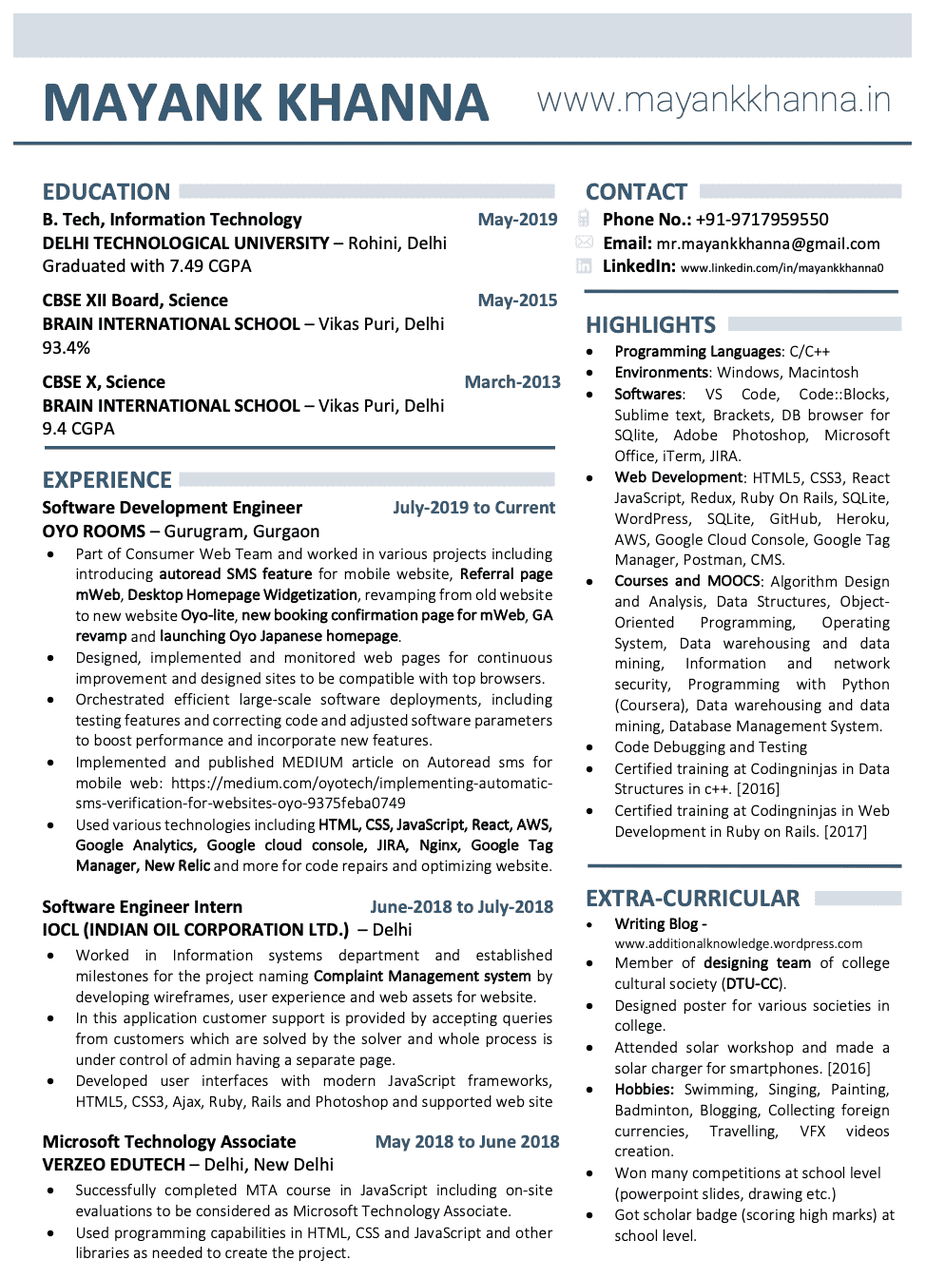
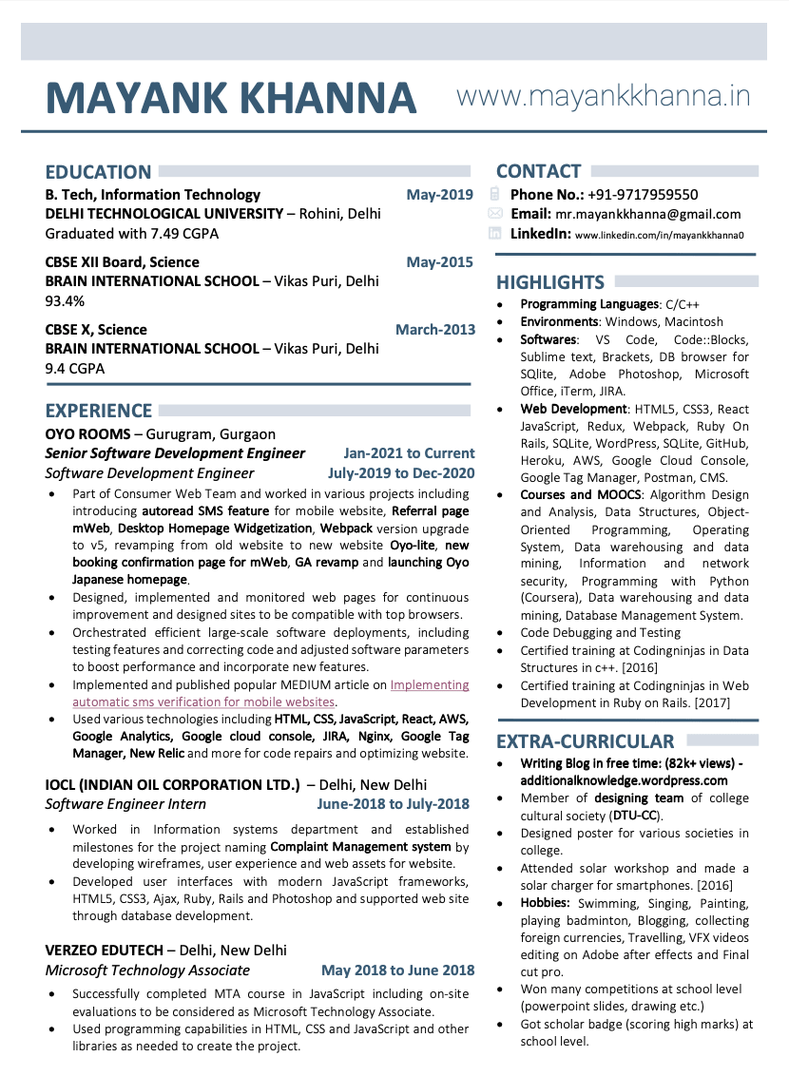
added theme

diff --git a/assets/css/index.css b/assets/css/index.css
@@ -1,1 +1,1 @@
-@import url(https://fonts.googleapis.com/css2?family=Spartan:wght@100;200;300;400;500;600;800&display=swap);*{padding:0;margin:0}html{scroll-behavior:smooth}body{padding:0;margin:0;font-family:Spartan,sans-serif;background:#121525;color:#fff;text-align:center}.site-title{font-size:20px}.outer{background-color:#121525;color:#fff;display:flex;flex-direction:column;justify-content:center;align-items:center;text-align:center;height:100vh}.heading{font-size:22px;font-weight:400}.keyboard{margin:56px 0;display:flex;flex-direction:column}.webDev{display:flex;text-transform:uppercase;position:absolute;left:100px;top:80px}.webDevText{margin-left:16px;display:flex;flex-direction:column;justify-content:space-evenly}.row{display:flex;flex-direction:row}.btn{border:1px solid #fff;border-radius:8px;padding:16px;margin:8px;width:1em}.dup{display:flex;justify-content:space-between;flex-direction:column;padding-top:4px;padding-bottom:4px}.tab{width:3em}.caps{width:4em}.return{width:4em}.shift{width:6em}.highlight{background:#fff;border:1px solid #fff}.active{animation:scaleUp .2s ease-in-out}@keyframes scaleUp{0%{background-color:#d6d0d0;color:#121525;transform:scale(1)}50%{background-color:#d6d0d0;color:#121525;transform:scale(1.2)}100%{background-color:#d6d0d0;color:#121525;transform:scale(1)}}.high{animation:proxy .26s infinite ease-in-out}@keyframes proxy{0%{transform:translate(-2px,2px)}25%{transform:translate(2px,-2px)}50%{transform:translate(2px,2px)}100%{transform:translate(-2px,-2px)}}#speed{font-size:42px;position:absolute;top:40px;opacity:.5}.bottomText{position:absolute;bottom:0;opacity:.5;right:0;margin:10px;display:none}.downArrow{fill:#fff;height:37px;width:40px;position:absolute;bottom:0;margin-bottom:16px;left:calc(50% - 20px);animation:bounce .8s infinite ease-in-out;cursor:pointer}@keyframes bounce{0%{transform:translateY(4px)}50%{transform:translateY(0)}100%{transform:translateY(5px)}}.borderL{border-bottom:2px solid #fff;border-left:2px solid #fff}.borderR{border-bottom:2px solid #fff;border-right:2px solid #fff}header{position:fixed;top:0;left:0;width:calc(100% - 200px);padding:40px 100px;z-index:50;display:flex;justify-content:space-between;align-items:center;transition:.5s}@keyframes headl{0%{transform:translateY(-100px)}100%{transform:translateY(0)}}header.sticky{background:#fff;padding:20px 100px;box-shadow:0 5px 20px rgba(0,0,0,.1);animation:headl .5s ease-in-out}header .logo{color:#fff;font-size:24px;text-transform:uppercase;text-decoration:none;font-weight:700;letter-spacing:2px}header.sticky .logo{color:#111}header ul{position:relative;display:flex}header ul li{position:relative;list-style:none}header ul li a{position:relative;display:inline-block;margin:0 15px;color:#fff;text-decoration:none}header.sticky ul li a{color:#111}.main{position:relative;overflow-y:hidden;padding-top:150px;padding:100px;background:#e5e5e5}.about{color:#121525;font-size:34px;font-weight:400}.about-section{margin-bottom:100px;display:flex;justify-content:space-around;align-items:center;margin-top:100px}.about-left{color:#121525;text-align:justify;width:50%;font-size:17px;line-height:1.5}.imageClass{width:26%;filter:drop-shadow(0px 0px 9px #bbb6b6);}.name{font-size:22px;font-weight:600}.linkClass{text-decoration:none;position:relative;font-size:20px;font-weight:800;color:#4169e1;overflow:hidden;background:linear-gradient(to right,#121525,#121525 50%,#4169e1 50%);background-clip:text;-webkit-background-clip:text;-webkit-text-fill-color:transparent;background-size:200% 100%;background-position:100%;transition:background-position 275ms ease;text-decoration:none}.linkClass:hover{background-position:0 100%}.experience{font-size:34px;font-weight:400}#experience{position:relative;padding:100px}#experience::after{content:'';position:absolute;height:340px;width:100%;left:0;bottom:-143px;background:#121525;transform:skewY(11deg);z-index:2}#experience::before{content:'';position:absolute;height:400px;width:100%;left:0;bottom:-436px;background:#00acff;transform:skewY(11deg);z-index:3}.timeline{background:#121525;position:relative;width:100%;padding:30px 0;margin-top:50px}.pointer{background:#fff;height:10px;width:10px;left:0;top:7px;transform:rotate(45deg);border-radius:2px}.timeline::after{content:"";position:absolute;width:6px;background:#e5e5e5;top:0;bottom:0;left:50%;z-index:5}.container{box-sizing:border-box;padding:15px 30px;position:relative;background:inherit;width:50%;z-index:4;background:0 0}.left{left:0}.right{left:50%}.container::after{content:"";height:20px;width:20px;background:#e5e5e5;position:absolute;transform:rotate(45deg);border-radius:4px;top:calc(50% - 10px);right:-13px;z-index:1}.container:hover::after{background:#fff}.container.right::after{left:-7px}.container::before{content:"";position:absolute;width:6px;height:6px;top:calc(50% - 5px);right:-8px;border:2px solid #121525;border-radius:50%;z-index:10;transform:matrix(1,0,0,5,0,0)}.container.right::before{left:-2px}.container .date{box-sizing:border-box;position:absolute;display:inline-block;top:calc(50% - 8px);text-align:center;font-size:14px;font-weight:700;color:#fff;text-transform:uppercase;letter-spacing:1px;z-index:1}.container.left .date{right:-230px}.container.right .date{left:-225px}.container .icon{position:absolute;box-sizing:border-box;display:inline-block;width:82px;height:80px;top:calc(50% - 38px);z-index:1;transition:all 1s ease-in-out;cursor:crosshair}.container .icon:hover{transform:rotate(1260deg);transition:all 1s ease-in-out}.container .icon:hover~.date-highlighter{background-position:0 0}.date-highlighter{top:calc(50% - 38px);right:-241px;position:absolute;height:70px;width:220px;box-shadow:0 0 10px 3px #eee;background-image:linear-gradient(to left,transparent,transparent 50%,#f37055 50%,#ef4e7b);background-position:100% 0;background-size:200% 100%;transition:all .6s ease-in}.verzeoColor{background-image:linear-gradient(to left,transparent,transparent 50%,rgb(45 116 244) 50%,rgb(247 165 60))}.oyoColor{background-image:linear-gradient(to left,transparent,transparent 50%,rgb(236 46 41) 50%,rgb(230 75 70))}.ioclColor{background-image:linear-gradient(to left,transparent,transparent 50%,rgb(2 24 80) 50%,rgb(244 113 32))}.date-highlighter::before{content:"";height:32px;width:32px;background:#131625;position:absolute;top:-22px;right:140px;box-shadow:inset 0 -6px 5px -3px #eee;border-radius:50%}.date-highlighter::after{content:"";height:32px;width:32px;background:#131625;position:absolute;top:60px;right:48px;box-shadow:inset 0 6px 5px -3px #eee;border-radius:50%}.date-right{right:632px;left:-231px}.date-left{right:-238px}.container.left .icon{right:36px}.container.right .icon{left:36px}.container .content{box-shadow:0 0 10px -1px #eee;padding:20px 80px 20px 20px;position:relative;background:#e7e6e2;border:10px solid #fff}.container.right .content{padding:30px 30px 30px 90px}.container .content h2{text-align:left;margin:0 0 10px 0;font-size:20px;font-weight:600;color:#131625}.container .content h3{text-align:left;margin:0 0 10px 0;font-size:18px;font-weight:500;color:#131625}.container .content p{text-align:justify;margin:0;font-size:14px;line-height:22px;color:#000}div#contact::before{content:'';position:absolute;height:400px;width:100%;left:0;top:-360px;background:#0191e6;z-index:3}@media (max-width:1000px){.container .content h2{margin:0 0 10px 0;font-size:20px;font-weight:400;color:#fff}.container .content h3{margin:0 0 10px 0;font-size:18px;font-weight:400;color:#fff}.container .content p{color:#fff;text-align:justify}.timeline::after{left:90px}.container{width:100%;padding-left:120px;padding-right:0}.container .content{background:0 0;border:none;box-shadow:none}.container.right{left:0}.container.left::after,.container.right::after{left:82px}.container.left::before,.container.right::before{left:87px}.container.left .date,.container.right .date{right:auto;left:100px;top:10px}.container.left .icon,.container.right .icon{display:none}.container.left .content,.container.right .content{padding:30px 30px 30px 90px;border-radius:500px 0 0 500px}.companyLogo,.date-highlighter{display:none}}.companyLogo{transition:all 1s ease-in-out;position:absolute;height:60px;right:30px}.oyoLogo{left:10px;top:14px}.ioclLogo{left:16px;top:20px}.oyoh2{margin-left:60px!important}.verzeo{height:28px}.contact-form{padding-top:50px;width:60%;display:flex;flex-direction:column;text-align:left;margin:auto}input[type=text],select,textarea{width:100%;padding:12px;border:1px solid #fff;border-radius:4px;box-sizing:border-box;margin-top:6px;margin-bottom:16px;resize:vertical;outline:0}input[type=reset],input[type=submit]{background-color:#fff;color:#121525;padding:12px 20px;font-size:16px;border:none;border-radius:4px;cursor:pointer;margin-right:20px;outline:0}input[type=submit]:hover{background-color:#ccc}input[type=reset]:hover{background-color:#ccc}.contact-icons{width:auto;background:#eee;margin-top:80px;display:flex;justify-content:center;color:#131626;font-size:16px;text-transform:uppercase;font-weight:100;padding:30px;position:relative}.contact-icon-class{height:30px;width:30px;fill:#131626;transition:all .3s ease-in-out}.contact-icons-wrapper{border-radius:50%;display:flex;z-index:1;flex-direction:column;align-items:center;cursor:pointer;padding:16px;box-shadow:0 0 14px -1px grey;margin:0 16px;transition:all .3s ease-in-out;background-position:100% 0;background-size:200% 100%;transition:all .25s ease-in}.contact-icons-wrapper:hover .whiteIcon{fill:#fff;transition:all .3s ease-in-out}.linkedin{background-image:linear-gradient(to left,transparent,transparent 50%,#0377b5 50%,#0377b5)}.gmail{background-image:linear-gradient(to left,transparent,transparent 50%,#e94034 50%,#e94034)}.whatsapp{background-image:linear-gradient(to left,transparent,transparent 50%,#4ec15b 50%,#4ec15b)}.wordpress{background-image:linear-gradient(to left,transparent,transparent 50%,#207195 50%,#207195)}.codepen{background-image:linear-gradient(to left,transparent,transparent 50%,#000 50%,#000)}.codepen:hover,.gmail:hover,.linkedin:hover,.whatsapp:hover,.wordpress:hover{background-position:0 0;transform:scale(1.2)}#contact{padding-top:180px;position:relative}.copyright{background:#eee;color:#131626;padding-top:16px;padding-bottom:20px}.connect{position:absolute;left:8%;background:#eee;padding:20px;top:-28px;font-size:20px;font-weight:500;transition:.5s}#work{background:#e5e5e5;overflow-x:hidden;position:relative;padding-top:120px}.workHeading{z-index:5;position:absolute;top:30px;left:100px;font-size:60px;font-weight:700;color:#fff;text-transform:uppercase}.contactHeading{z-index:5;position:absolute;top:90px;left:20%;font-size:60px;font-weight:700;color:#fff;text-transform:uppercase;letter-spacing:-1px}.workh{left:10%}.workOuter{display:flex;flex-wrap:wrap;justify-content:center;background:#e5e5e5;padding:80px 80px 40px 80px}.workSection{padding-bottom:0}.workWrapper{padding:0 50px 100px 50px;z-index:5}.mobile-outer{color:#121525;height:500px;width:300px;border:6px solid #e5e5e5;background:#121525;cursor:pointer;transition:.5s ease-in-out}.mobile-inner{height:90%;width:100%;position:relative;background:linear-gradient(44deg,#008fe6 0,#0091e6 48%,#00acff 48%,#00acff 100%)}.mobile-inner:after{content:"";background-color:#eee;height:30px;width:30px;border-radius:50%;position:absolute;bottom:-40px;left:calc(50% - 15px)}.mobile-screen{height:260px;width:260px;background:#eee;transition:.5s ease-in-out}.mobile-screen-cv{width:100%;background:#eee;transition:.5s ease-in-out}.mobile-text{position:absolute;bottom:0;color:#fff;text-align:left;left:16px;padding-right:30px;font-size:22px}.mediumLogo{height:60px;filter:invert(1);position:absolute;left:0}.mobile-outer:hover{transition:transform .6s ease-in-out}.mobile-outer:hover .mobile-screen{transform:scalex(1.1) scaleY(1.1);transition:transform .6s ease-in-out}.mobile-outer:hover .mobile-screen-cv{transform:scalex(1.1) scaleY(1.1);transition:transform .6s ease-in-out}.mobile-image{height:260px;width:calc(100% - 40px);background:#eee;position:absolute;top:80px;left:20px;overflow:hidden;transition:.6s ease-in-out}.cv{height:calc(100% - 100px)}.outflow{position:absolute;height:100%;width:100%;top:0;opacity:.8;transition:background-color .6s ease-in-out}.mobile-outer:hover .outflow{background-color:#272626;transition:background-color .6s ease-in-out}.outflowIcon{fill:transparent;position:absolute;height:30px;top:45%;left:45%;transition:fill .6s ease-in-out}.mobile-outer:hover .outflowIcon{fill:#fff;transition:fill .6s ease-in-out}.cvText{text-transform:uppercase;font-size:24px;letter-spacing:-1px;padding-top:26px;color:#fff;font-weight:600}.mobile-header{height:60px;width:100%;position:fixed;background:#e5e5e5;z-index:30;box-shadow:0 0 15px -4px #7d7777}.mobile-header-title{color:#131626;font-size:21px;height:100%;align-items:center;display:flex;justify-content:center}#menu{z-index:2}#menu-bar{transform:translate(20px,22px);width:36px;height:40px}.bar{height:4px;width:100%;background:#131626;border-radius:2px;transition:.3s ease}#bar1{transform:translateY(-5px)}#bar3{transform:translateY(5px)}.nav{transition:.3s ease;display:none}.nav ul{padding:20px 22px}.nav li{list-style:none;padding:12px 0}.nav li a{color:#fff;font-size:20px;text-decoration:none}.nav li a:hover{font-weight:700}#menu,.menu-bg{top:0;left:0;position:absolute;text-align:left}.menu-bg{z-index:1;width:0;height:0;background:#131626;border-radius:50%;box-shadow:7px 9px 0 -7px #eee;transition:.3s ease}.change{display:block}.change .bar{background-color:#fff}.change #bar1{transform:translateY(4px) rotateZ(-45deg)}.change #bar2{opacity:0}.change #bar3{transform:translateY(-6px) rotateZ(45deg)}.change-bg{width:300px;height:300px;transform:translate(-47%,-8%)}@media only screen and (max-width:950px){#home,header{display:none}.cv{overflow-y:hidden}.cvText{font-size:24px}}@media only screen and (min-width:950px){.mobile-header{display:none}}@media only screen and (max-width:600px){.main{padding:100px 16px 20px 16px;overflow:hidden}.imageClass{width:200px;height:200px}.about-section{flex-direction:column-reverse;margin-top:40px}.about-left{width:100%;padding-top:16px}.contact-icons{flex-wrap:wrap;padding-top:40px}.contact-icons-wrapper{margin-bottom:16px}.contact-form{width:90%}#experience{padding:100px 16px 50px 16px}.timeline::after{left:20px}.container.left::after,.container.right::after{left:13px}.container.left::before,.container.right::before{left:18px}.container{width:100%;padding-left:20px}.container.left .content,.container.right .content{padding:30px 0 30px 30px;border:none;box-shadow:none}.oyoh2{margin-left:0!important}.container .content p{text-align:left}.container.left .date,.container.right .date{left:50px}.container .content h2{font-size:22px;font-weight:700}.container .content h3{font-size:18px;font-weight:600}.workOuter{padding-top:20px}.leftMargin{padding-left:1650px}.expWave{display:none}.contactHeading{left:16px;top:85px;font-size:40px}.circleSym{right:-220px!important}.expNew{font-size:30px!important}}a:link{text-decoration:none!important}.symb{position:absolute;top:0;left:0}.expNew{font-size:60px;font-weight:700;color:#fff;text-transform:uppercase;letter-spacing:-1px}.aboutNew{color:#121525}
+@import url(https://fonts.googleapis.com/css2?family=Spartan:wght@100;200;300;400;500;600;800&display=swap);*{padding:0;margin:0}:root{--bg:#121525;--work-color:#00acff;--work-color2:#008fe6;--work-color3:#121525;--text-color:#121525;--svg-background:#15a9d0;--image-opt:drop-shadow(0px 0px 9px #bbb6b6);--link-blog:#4169e1}.newTheme{--bg:#6a5866;--work-color:#806e91;--work-color2:#6a5866;--work-color3:#b0718d;--text-color:#6a5866;--svg-background:#6a5866;--image-opt:drop-shadow(0px 0px 9px #bbb6b6) sepia(83%) saturate(1) contrast(90%);--link-blog:#b0718d}html{scroll-behavior:smooth}body{padding:0;margin:0;font-family:Spartan,sans-serif;background:var(--bg);color:#fff;text-align:center}.site-title{font-size:20px}.toggleWrapper{position:fixed;z-index:1000000;bottom:10%;right:1%}.toggleWrapper::before{content:"";position:absolute;height:50px;width:150px;left:-9px;bottom:-17px;background:#c1f0db;border-top-left-radius:60px;border-bottom-left-radius:60px;box-shadow:1px 1px 17px -3px grey}.outer{background-color:var(--bg);color:#fff;display:flex;flex-direction:column;justify-content:center;align-items:center;text-align:center;height:100vh}.heading{font-size:22px;font-weight:400}.keyboard{margin:56px 0;display:flex;flex-direction:column}.webDev{display:flex;text-transform:uppercase;position:absolute;left:100px;top:80px}.webDevText{margin-left:16px;display:flex;flex-direction:column;justify-content:space-evenly}.row{display:flex;flex-direction:row}.btn{border:1px solid #fff;border-radius:8px;padding:16px;margin:8px;width:1em}.dup{display:flex;justify-content:space-between;flex-direction:column;padding-top:4px;padding-bottom:4px}.tab{width:3em}.caps{width:4em}.return{width:4em}.shift{width:6em}.highlight{background:#fff;border:1px solid #fff}.active{animation:scaleUp .2s ease-in-out}@keyframes scaleUp{0%{background-color:#d6d0d0;color:#121525;transform:scale(1)}50%{background-color:#d6d0d0;color:#121525;transform:scale(1.2)}100%{background-color:#d6d0d0;color:#121525;transform:scale(1)}}.high{animation:proxy .26s infinite ease-in-out}@keyframes proxy{0%{transform:translate(-2px,2px)}25%{transform:translate(2px,-2px)}50%{transform:translate(2px,2px)}100%{transform:translate(-2px,-2px)}}#speed{font-size:42px;position:absolute;top:40px;opacity:.5}.bottomText{position:absolute;bottom:0;opacity:.5;right:0;margin:10px;display:none}.downArrow{fill:#fff;height:37px;width:40px;position:absolute;bottom:0;margin-bottom:16px;left:calc(50% - 20px);animation:bounce .8s infinite ease-in-out;cursor:pointer}@keyframes bounce{0%{transform:translateY(4px)}50%{transform:translateY(0)}100%{transform:translateY(5px)}}.borderL{border-bottom:2px solid #fff;border-left:2px solid #fff}.borderR{border-bottom:2px solid #fff;border-right:2px solid #fff}header{position:fixed;top:0;left:0;width:calc(100% - 200px);padding:40px 100px;z-index:50;display:flex;justify-content:space-between;align-items:center;transition:.5s}@keyframes headl{0%{transform:translateY(-100px)}100%{transform:translateY(0)}}header.sticky{background:#fff;padding:20px 100px;box-shadow:0 5px 20px rgba(0,0,0,.1);animation:headl .5s ease-in-out}header .logo{color:#fff;font-size:24px;text-transform:uppercase;text-decoration:none;font-weight:700;letter-spacing:2px}header.sticky .logo{color:var(--text-color)}header ul{position:relative;display:flex}header ul li{position:relative;list-style:none}header ul li a{position:relative;display:inline-block;margin:0 15px;color:#fff;text-decoration:none}header.sticky ul li a{color:var(--text-color)}.main{position:relative;overflow-y:hidden;padding-top:150px;padding:100px;background:#e5e5e5}.about{color:#121525;font-size:34px;font-weight:400}.about-section{margin-bottom:100px;display:flex;justify-content:space-around;align-items:center;margin-top:100px}.about-left{color:var(--text-color);text-align:justify;width:50%;font-size:17px;line-height:1.5}.imageClass{width:26%;filter:var(--image-opt)}.name{font-size:22px;font-weight:600}.linkClass{text-decoration:none;position:relative;font-size:20px;font-weight:800;color:var(--link-blog);overflow:hidden;background:linear-gradient(to right,var(--bg),var(--bg) 50%,var(--link-blog) 50%);background-clip:text;-webkit-background-clip:text;-webkit-text-fill-color:transparent;background-size:200% 100%;background-position:100%;transition:background-position 275ms ease;text-decoration:none}.linkClass:hover{background-position:0 100%}.experience{font-size:34px;font-weight:400}#experience{background:var(--bg);position:relative;padding:100px}#experience::after{content:"";position:absolute;height:340px;width:100%;left:0;bottom:-143px;background:var(--bg);transform:skewY(11deg);z-index:2}#experience::before{content:"";position:absolute;height:400px;width:100%;left:0;bottom:-436px;background:var(--work-color);transform:skewY(11deg);z-index:3}.timeline{background:var(--bg);position:relative;width:100%;padding:30px 0;margin-top:50px}.expWave>path:nth-of-type(1){fill:var(--bg)}.circleSym>path:nth-of-type(1){fill:var(--bg)}.pointer{background:#fff;height:10px;width:10px;left:0;top:7px;transform:rotate(45deg);border-radius:2px}.timeline::after{content:"";position:absolute;width:6px;background:#e5e5e5;top:0;bottom:0;left:50%;z-index:5}.container{box-sizing:border-box;padding:15px 30px;position:relative;background:inherit;width:50%;z-index:4;background:0 0}.left{left:0}.right{left:50%}.container::after{content:"";height:20px;width:20px;background:#e5e5e5;position:absolute;transform:rotate(45deg);border-radius:4px;top:calc(50% - 10px);right:-13px;z-index:1}.container:hover::after{background:#fff}.container.right::after{left:-7px}.container::before{content:"";position:absolute;width:6px;height:6px;top:calc(50% - 5px);right:-8px;border:2px solid var(--bg);border-radius:50%;z-index:10;transform:matrix(1,0,0,5,0,0)}.container.right::before{left:-2px}.container .date{box-sizing:border-box;position:absolute;display:inline-block;top:calc(50% - 8px);text-align:center;font-size:14px;font-weight:700;color:#fff;text-transform:uppercase;letter-spacing:1px;z-index:1}.container.left .date{right:-230px}.container.right .date{left:-225px}.container .icon{position:absolute;box-sizing:border-box;display:inline-block;width:82px;height:80px;top:calc(50% - 38px);z-index:1;transition:all 1s ease-in-out;cursor:crosshair}.container .icon:hover{transform:rotate(1260deg);transition:all 1s ease-in-out}.container .icon:hover~.date-highlighter{background-position:0 0}.date-highlighter{top:calc(50% - 38px);right:-241px;position:absolute;height:70px;width:220px;box-shadow:0 0 10px 3px #eee;background-image:linear-gradient(to left,transparent,transparent 50%,#f37055 50%,#ef4e7b);background-position:100% 0;background-size:200% 100%;transition:all .6s ease-in}.verzeoColor{background-image:linear-gradient(to left,transparent,transparent 50%,rgb(45 116 244) 50%,rgb(247 165 60))}.oyoColor{background-image:linear-gradient(to left,transparent,transparent 50%,rgb(236 46 41) 50%,rgb(230 75 70))}.ioclColor{background-image:linear-gradient(to left,transparent,transparent 50%,rgb(2 24 80) 50%,rgb(244 113 32))}.date-highlighter::before{content:"";height:32px;width:32px;background:var(--bg);position:absolute;top:-22px;right:140px;box-shadow:inset 0 -6px 5px -3px #eee;border-radius:50%}.date-highlighter::after{content:"";height:32px;width:32px;background:var(--bg);position:absolute;top:60px;right:48px;box-shadow:inset 0 6px 5px -3px #eee;border-radius:50%}.date-right{right:632px;left:-231px}.date-left{right:-238px}.container.left .icon{right:36px}.container.right .icon{left:36px}.container .content{box-shadow:0 0 10px -1px #eee;padding:20px 80px 20px 20px;position:relative;background:#e7e6e2;border:10px solid #fff}.container.right .content{padding:30px 30px 30px 90px}.container .content h2{text-align:left;margin:0 0 10px 0;font-size:20px;font-weight:600;color:var(--text-color)}.container .content h3{text-align:left;margin:0 0 10px 0;font-size:18px;font-weight:500;color:var(--text-color)}.container .content p{text-align:justify;margin:0;font-size:14px;line-height:22px;color:var(--text-color)}div#contact::before{content:"";position:absolute;height:400px;width:100%;left:0;top:-360px;background:var(--work-color);z-index:3}@media (max-width:1000px){.container .content h2{margin:0 0 10px 0;font-size:20px;font-weight:400;color:#fff}.container .content h3{margin:0 0 10px 0;font-size:18px;font-weight:400;color:#fff}.container .content p{color:#fff;text-align:justify}.timeline::after{left:90px}.container{width:100%;padding-left:120px;padding-right:0}.container .content{background:0 0;border:none;box-shadow:none}.container.right{left:0}.container.left::after,.container.right::after{left:82px}.container.left::before,.container.right::before{left:87px}.container.left .date,.container.right .date{right:auto;left:100px;top:10px}.container.left .icon,.container.right .icon{display:none}.container.left .content,.container.right .content{padding:30px 30px 30px 90px;border-radius:500px 0 0 500px}.companyLogo,.date-highlighter{display:none}}.companyLogo{transition:all 1s ease-in-out;position:absolute;height:60px;right:30px}.oyoLogo{left:10px;top:14px}.ioclLogo{left:16px;top:20px}.oyoh2{margin-left:60px!important}.verzeo{height:28px}.contact-form{padding-top:50px;width:60%;display:flex;flex-direction:column;text-align:left;margin:auto}input[type=text],select,textarea{width:100%;padding:12px;border:1px solid #fff;border-radius:4px;box-sizing:border-box;margin-top:6px;margin-bottom:16px;resize:vertical;outline:0}input[type=reset],input[type=submit]{background-color:#fff;color:var(--text-color);padding:12px 20px;font-size:16px;border:none;border-radius:4px;cursor:pointer;margin-right:20px;outline:0}input[type=submit]:hover{background-color:#ccc}input[type=reset]:hover{background-color:#ccc}.contact-icons{width:auto;background:#eee;margin-top:80px;display:flex;justify-content:center;color:var(--text-color);font-size:16px;text-transform:uppercase;font-weight:100;padding:30px;position:relative}.contact-icon-class{height:30px;width:30px;fill:var(--text-color);transition:all .3s ease-in-out}.contact-icons-wrapper{border-radius:50%;display:flex;z-index:1;flex-direction:column;align-items:center;cursor:pointer;padding:16px;box-shadow:0 0 14px -1px grey;margin:0 16px;transition:all .3s ease-in-out;background-position:100% 0;background-size:200% 100%;transition:all .25s ease-in}.contact-icons-wrapper:hover .whiteIcon{fill:#fff;transition:all .3s ease-in-out}.linkedin{background-image:linear-gradient(to left,transparent,transparent 50%,#0377b5 50%,#0377b5)}.gmail{background-image:linear-gradient(to left,transparent,transparent 50%,#e94034 50%,#e94034)}.whatsapp{background-image:linear-gradient(to left,transparent,transparent 50%,#4ec15b 50%,#4ec15b)}.wordpress{background-image:linear-gradient(to left,transparent,transparent 50%,#207195 50%,#207195)}.codepen{background-image:linear-gradient(to left,transparent,transparent 50%,#000 50%,#000)}.codepen:hover,.gmail:hover,.linkedin:hover,.whatsapp:hover,.wordpress:hover{background-position:0 0;transform:scale(1.2)}#contact{background:var(--bg);padding-top:180px;position:relative}.copyright{background:#eee;color:var(--text-color);padding-top:16px;padding-bottom:20px}.connect{position:absolute;left:8%;background:#eee;padding:20px;top:-28px;font-size:20px;font-weight:500;transition:.5s}#work{background:#e5e5e5;overflow-x:hidden;position:relative;padding-top:120px}.workHeading{z-index:5;position:absolute;top:30px;left:100px;font-size:60px;font-weight:700;color:#fff;text-transform:uppercase}.contactHeading{z-index:5;position:absolute;top:90px;left:20%;font-size:60px;font-weight:700;color:#fff;text-transform:uppercase;letter-spacing:-1px}.workh{left:10%}.workOuter{display:flex;flex-wrap:wrap;justify-content:center;background:#e5e5e5;padding:80px 80px 40px 80px}.workSection{padding-bottom:0}.workWrapper{padding:0 50px 100px 50px;z-index:5}.mobile-outer{color:#121525;height:500px;width:300px;border:6px solid #e5e5e5;background:var(--work-color3);cursor:pointer;transition:.5s ease-in-out}.mobile-inner{height:90%;width:100%;position:relative;background:linear-gradient(44deg,var(--work-color) 0,var(--work-color) 48%,var(--work-color2) 48%,var(--work-color2) 100%)}.mobile-inner:after{content:"";background-color:#eee;height:30px;width:30px;border-radius:50%;position:absolute;bottom:-40px;left:calc(50% - 15px)}.mobile-screen{height:260px;width:260px;background:#eee;transition:.5s ease-in-out}.mobile-screen-cv{width:100%;background:#eee;transition:.5s ease-in-out}.mobile-text{position:absolute;bottom:0;color:#fff;text-align:left;left:16px;padding-right:30px;font-size:22px}.mediumLogo{height:60px;filter:invert(1);position:absolute;left:0}.mobile-outer:hover{transition:transform .6s ease-in-out}.mobile-outer:hover .mobile-screen{transform:scalex(1.1) scaleY(1.1);transition:transform .6s ease-in-out}.mobile-outer:hover .mobile-screen-cv{transform:scalex(1.1) scaleY(1.1);transition:transform .6s ease-in-out}.mobile-image{height:260px;width:calc(100% - 40px);background:#eee;position:absolute;top:80px;left:20px;overflow:hidden;transition:.6s ease-in-out}.cv{height:calc(100% - 100px)}.outflow{position:absolute;height:100%;width:100%;top:0;opacity:.8;transition:background-color .6s ease-in-out}.mobile-outer:hover .outflow{background-color:#272626;transition:background-color .6s ease-in-out}.outflowIcon{fill:transparent;position:absolute;height:30px;top:45%;left:45%;transition:fill .6s ease-in-out}.mobile-outer:hover .outflowIcon{fill:#fff;transition:fill .6s ease-in-out}.cvText{text-transform:uppercase;font-size:24px;letter-spacing:-1px;padding-top:26px;color:#fff;font-weight:600}.mobile-header{height:60px;width:100%;position:fixed;background:#e5e5e5;z-index:30;box-shadow:0 0 15px -4px #7d7777}.mobile-header-title{color:#131626;font-size:21px;height:100%;align-items:center;display:flex;justify-content:center}#menu{z-index:2}#menu-bar{transform:translate(20px,22px);width:36px;height:40px}.bar{height:4px;width:100%;background:#131626;border-radius:2px;transition:.3s ease}#bar1{transform:translateY(-5px)}#bar3{transform:translateY(5px)}.nav{transition:.3s ease;display:none}.nav ul{padding:20px 22px}.nav li{list-style:none;padding:12px 0}.nav li a{color:#fff;font-size:20px;text-decoration:none}.nav li a:hover{font-weight:700}#menu,.menu-bg{top:0;left:0;position:absolute;text-align:left}.menu-bg{z-index:1;width:0;height:0;background:#131626;border-radius:50%;box-shadow:7px 9px 0 -7px #eee;transition:.3s ease}.change{display:block}.change .bar{background-color:#fff}.change #bar1{transform:translateY(4px) rotateZ(-45deg)}.change #bar2{opacity:0}.change #bar3{transform:translateY(-6px) rotateZ(45deg)}.change-bg{width:300px;height:300px;transform:translate(-47%,-8%)}@media only screen and (max-width:950px){#home,header{display:none}.cv{overflow-y:hidden}.cvText{font-size:24px}}@media only screen and (min-width:950px){.mobile-header{display:none}}@media only screen and (max-width:600px){.main{padding:100px 16px 20px 16px;overflow:hidden}.imageClass{width:200px;height:200px}.about-section{flex-direction:column-reverse;margin-top:40px}.about-left{width:100%;padding-top:16px}.contact-icons{flex-wrap:wrap;padding-top:40px}.contact-icons-wrapper{margin-bottom:16px}.contact-form{width:90%}#experience{padding:100px 16px 50px 16px}.timeline::after{left:20px}.container.left::after,.container.right::after{left:13px}.container.left::before,.container.right::before{left:18px}.container{width:100%;padding-left:20px}.container.left .content,.container.right .content{padding:30px 0 30px 30px;border:none;box-shadow:none}.oyoh2{margin-left:0!important}.container .content p{text-align:left}.container.left .date,.container.right .date{left:50px}.container .content h2{font-size:22px;font-weight:700}.container .content h3{font-size:18px;font-weight:600}.workOuter{padding-top:20px}.leftMargin{padding-left:1650px}.expWave{display:none}.contactHeading{left:16px;top:85px;font-size:40px}.circleSym{right:-220px!important}.expNew{font-size:30px!important}}a:link{text-decoration:none!important}.symb{position:absolute;top:0;left:0}.expNew{font-size:60px;font-weight:700;color:#fff;text-transform:uppercase;letter-spacing:-1px}.aboutNew{color:var(--bg)}input[type=checkbox]{appearance:none;width:80px;height:8px;background:#444;border-radius:5px;position:relative;outline:0;cursor:pointer}input[type=checkbox]:after,input[type=checkbox]:before{position:absolute;content:"";transition:all .25s}input[type=checkbox]:before{width:20px;height:20px;background:#ccc;border:5px solid #666;border-radius:50%;top:50%;left:0;transform:translateY(-50%)}input[type=checkbox]:after{width:25px;height:25px;background:#666;border-radius:50%;top:50%;left:2px;transform:scale(1) translateY(-50%);transform-origin:50% 50%}input[type=checkbox]:checked:before{left:calc(100% - 28px)}input[type=checkbox]:checked:after{left:75px;transform:scale(0)}

diff --git a/index.html b/index.html
@@ -35,6 +35,9 @@
 		<script src="https://unpkg.com/scrollreveal/dist/scrollreveal.min.js"></script>
 	</head>
 	<body id="body" class="loading">
+	<div class="toggleWrapper">
+		<input class="toggle-theme" type="checkbox">
+	</div>
 		<header>
 			<h1 href="#" class="logo">MAYANK KHANNA</h1>
 			<ul class="menu">
@@ -280,14 +283,14 @@
 			<div class="timeline">
 				<div class="container left exp1">
 					<div class="date">July 2019 to Current</div>
-					<img src="assets/screw.png" class="icon" alt="screw"/>
+					<img loading="lazy" src="assets/screw.png" class="icon" alt="screw"/>
 					<div class="date-highlighter oyoColor"></div>
 					<div class="content">
-						<img src="assets/oyo.png" class="companyLogo oyoLogo" alt="oyo"/>
+						<img loading="lazy" src="assets/oyo.png" class="companyLogo oyoLogo" alt="oyo"/>
 						<h2 class="oyoh2">OYO ROOMS, Gurgaon</h2>
-						<h3 class="oyoh2">Software Development Engineer</h3>
+						<h3 class="oyoh2">Senior Software Development Engineer</h3>
 						<p>
-							Currently working for Consumer Web Team (Booking and Beyond) and
+							Currently working as Senior Software Engineer in Consumer Web Team (Booking and Beyond) and
 							              worked in various projects including Autoread SMS for mobile
 							              website, GA revamp, Referral flow for mWeb, Desktop Homepage
 							              Widgetization, revamping from old website to new website Oyo-lite,
@@ -303,10 +306,10 @@
 				</div>
 				<div class="container right exp2">
 					<div class="date">June 2018 to July 2018</div>
-					<img src="assets/screw.png" class="icon" alt="screw"/>
+					<img loading="lazy" src="assets/screw.png" class="icon" alt="screw"/>
 					<div class="date-highlighter date-right verzeoColor"></div>
 					<div class="content">
-						<img src="assets/verzeo.png" class="companyLogo verzeo" alt="verzeo"/>
+						<img loading="lazy" src="assets/verzeo.png" class="companyLogo verzeo" alt="verzeo"/>
 						<h2>VERZEO EDUTECH</h2>
 						<h3>Microsoft Technology Associate</h3>
 						<p>
@@ -319,10 +322,10 @@
 				</div>
 				<div class="container left exp3">
 					<div class="date">May 2018 to June 2018</div>
-					<img src="assets/screw.png" class="icon" alt="screw"/>
+					<img loading="lazy" src="assets/screw.png" class="icon" alt="screw"/>
 					<div class="date-highlighter date-left ioclColor"></div>
 					<div class="content">
-						<img src="assets/iocl.png" class="companyLogo ioclLogo" alt="iocl"/>
+						<img loading="lazy" src="assets/iocl.png" class="companyLogo ioclLogo" alt="iocl"/>
 						<h2 class="oyoh2">IOCL (INDIAN OIL CORPORATION LTD.), Delhi</h2 c>
 						<h3 class="oyoh2">Software Engineering Intern</h3>
 						<p>
@@ -352,7 +355,7 @@
 							<div class="mobile-inner">
 								<h2 class="cvText">Medium</h2>
 								<div class="mobile-image">
-									<img src="assets/otpautoread.jpg" class="mobile-screen" alt="autoreadsms"/>
+									<img loading="lazy" src="assets/otpautoread.jpg" class="mobile-screen" alt="autoreadsms"/>
 									<div class="outflow">
 										<?xml version="1.0" encoding="iso-8859-1"?>
 										<svg class="outflowIcon" version="1.1" id="Capa_1" xmlns="http://www.w3.org/2000/svg" xmlns:xlink="http://www.w3.org/1999/xlink" x="0px" y="0px" viewBox="0 0 283.922 283.922" xml:space="preserve">
@@ -396,7 +399,7 @@
 							<div class="mobile-inner">
 								<h2 class="cvText">Curriculum Vitae</h2>
 								<div class="mobile-image cv">
-									<img src="assets/resume.png" class="mobile-screen-cv" alt="resume"/>
+									<img loading="lazy" src="assets/resume.png" class="mobile-screen-cv" alt="resume"/>
 									<div class="outflow">
 										<?xml version="1.0" encoding="iso-8859-1"?>
 										<svg class="outflowIcon" version="1.1" id="Capa_1" xmlns="http://www.w3.org/2000/svg" xmlns:xlink="http://www.w3.org/1999/xlink" x="0px" y="0px" viewBox="0 0 283.922 283.922" xml:space="preserve">
@@ -438,7 +441,7 @@
 							<div class="mobile-inner">
 								<h2 class="cvText">Wordpress blog</h2>
 								<div class="mobile-image">
-									<img src="assets/ak.png" class="mobile-screen" alt="autoreadsms"/>
+									<img loading="lazy" src="assets/ak.png" class="mobile-screen" alt="autoreadsms"/>
 									<div class="outflow">
 										<?xml version="1.0" encoding="iso-8859-1"?>
 										<svg class="outflowIcon" version="1.1" id="Capa_1" xmlns="http://www.w3.org/2000/svg" xmlns:xlink="http://www.w3.org/1999/xlink" x="0px" y="0px" viewBox="0 0 283.922 283.922" xml:space="preserve">
@@ -482,7 +485,7 @@
 							<div class="mobile-inner">
 								<h2 class="cvText">Quora Clone</h2>
 								<div class="mobile-image">
-									<img src="assets/quora-mk.png" class="mobile-screen" alt="quora"/>
+									<img loading="lazy" src="assets/quora-mk.png" class="mobile-screen" alt="quora"/>
 									<div class="outflow">
 										<?xml version="1.0" encoding="iso-8859-1"?>
 										<svg class="outflowIcon" version="1.1" id="Capa_1" xmlns="http://www.w3.org/2000/svg" xmlns:xlink="http://www.w3.org/1999/xlink" x="0px" y="0px" viewBox="0 0 283.922 283.922" xml:space="preserve">
@@ -526,7 +529,7 @@
 							<div class="mobile-inner">
 								<h2 class="cvText">TODO App</h2>
 								<div class="mobile-image">
-									<img src="assets/todo.png" class="mobile-screen" alt="todoapp"/>
+									<img loading="lazy" src="assets/todo.png" class="mobile-screen" alt="todoapp"/>
 									<div class="outflow">
 										<?xml version="1.0" encoding="iso-8859-1"?>
 										<svg class="outflowIcon" version="1.1" id="Capa_1" xmlns="http://www.w3.org/2000/svg" xmlns:xlink="http://www.w3.org/1999/xlink" x="0px" y="0px" viewBox="0 0 283.922 283.922" xml:space="preserve">
@@ -570,7 +573,7 @@
 							<div class="mobile-inner">
 								<h2 class="cvText">Weather Card</h2>
 								<div class="mobile-image">
-									<img src="assets/weather.png" class="mobile-screen" alt="weatherapp"/>
+									<img loading="lazy" src="assets/weather.png" class="mobile-screen" alt="weatherapp"/>
 									<div class="outflow">
 										<?xml version="1.0" encoding="iso-8859-1"?>
 										<svg class="outflowIcon" version="1.1" id="Capa_1" xmlns="http://www.w3.org/2000/svg" xmlns:xlink="http://www.w3.org/1999/xlink" x="0px" y="0px" viewBox="0 0 283.922 283.922" xml:space="preserve">
@@ -930,7 +933,22 @@ setTimeout(() => {
 element.classList.remove("active");
 }, 300);
 }
-});</script>
+});
+// Theme toggler
+let toggle = document.querySelector('.toggle-theme');
+if (localStorage.getItem('newTheme')) {
+  document.body.classList.add('newTheme');
+}
+toggle.addEventListener('click', function(e) {
+  if (document.body.classList.contains('newTheme')) {
+    document.body.classList.remove('newTheme');
+    localStorage.removeItem('newTheme');
+  } else {
+    document.body.classList.add('newTheme');
+    localStorage.setItem('newTheme', true);
+  }
+});
+</script>
 
 <!-- Global site tag (gtag.js) - Google Analytics -->
 <script async src="https://www.googletagmanager.com/gtag/js?id=G-WEGCPZQHJE"></script>
